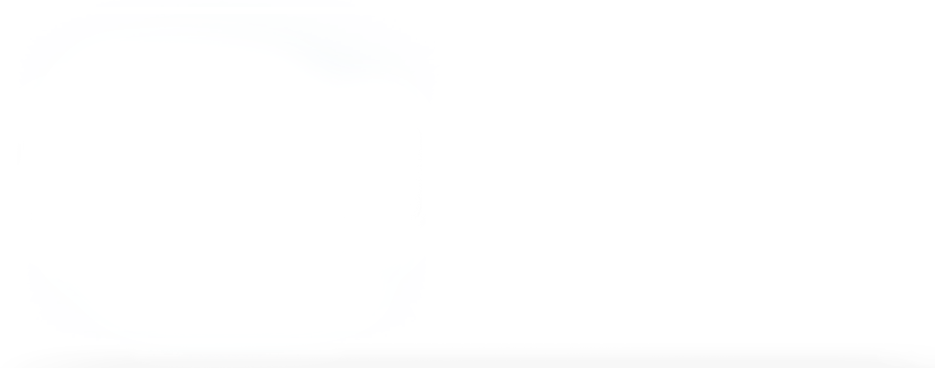
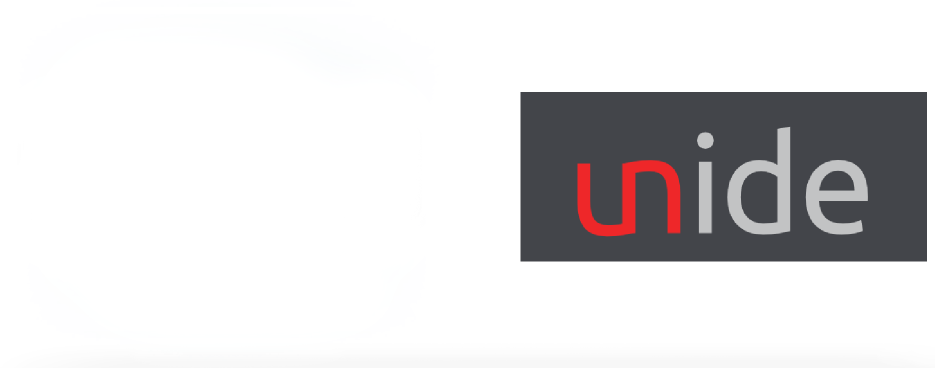
new images and content

Changed region(s): [[0.5583, 0.2391, 0.9925, 0.7174]]

diff --git a/app/assets/stylesheets/homepage/other_points.css.scss b/app/assets/stylesheets/homepage/other_points.css.scss
@@ -8,17 +8,17 @@
     padding-top: 60px;
   }
   #section-1 {
-    background: url(asset-path("", "images")) no-repeat center top;
+    background: url(asset-path("github.png", "images")) no-repeat center top;
   }
   #section-2 {
-    background: url(asset-path("", "images")) no-repeat center top;
+    background: url(asset-path("hal.png", "images")) no-repeat center top;
     margin-right: 0px;
   }
   #section-3 {
-    background: url(asset-path("", "images")) no-repeat center top;
+    background: url(asset-path("lock.png", "images")) no-repeat center top;
   }
   #section-4 {
-    background: url(asset-path("", "images")) no-repeat center top;
+    background: url(asset-path("coins.png", "images")) no-repeat center top;
     margin-right: 0px;
   }
   h4 {
